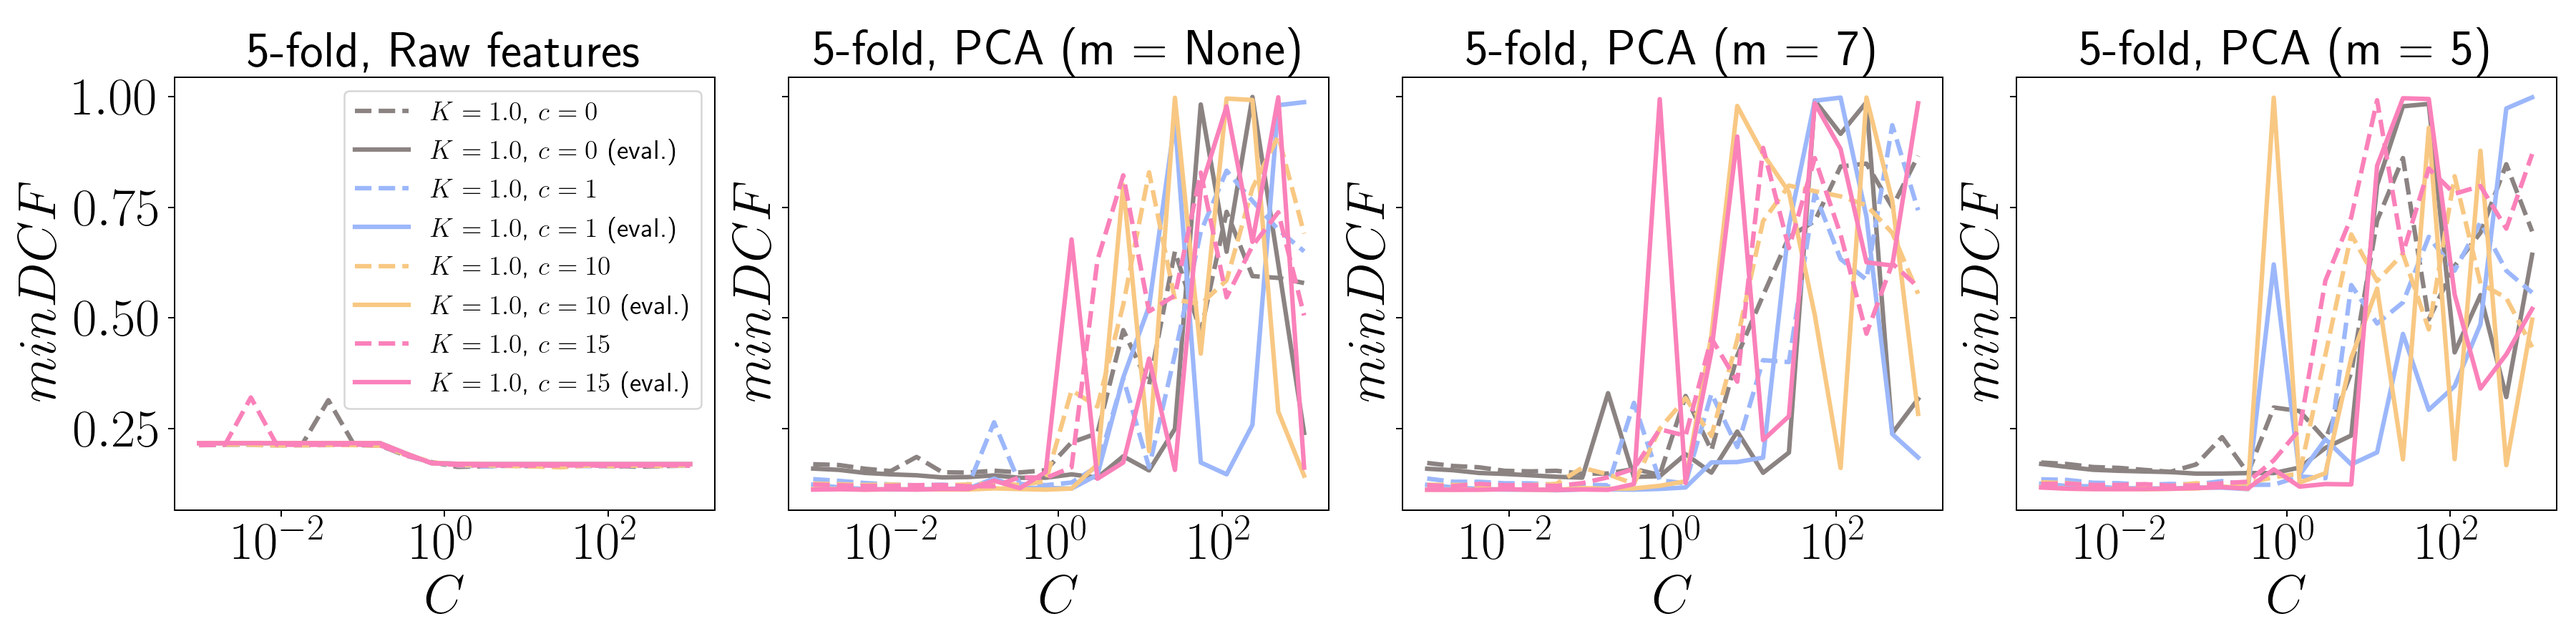
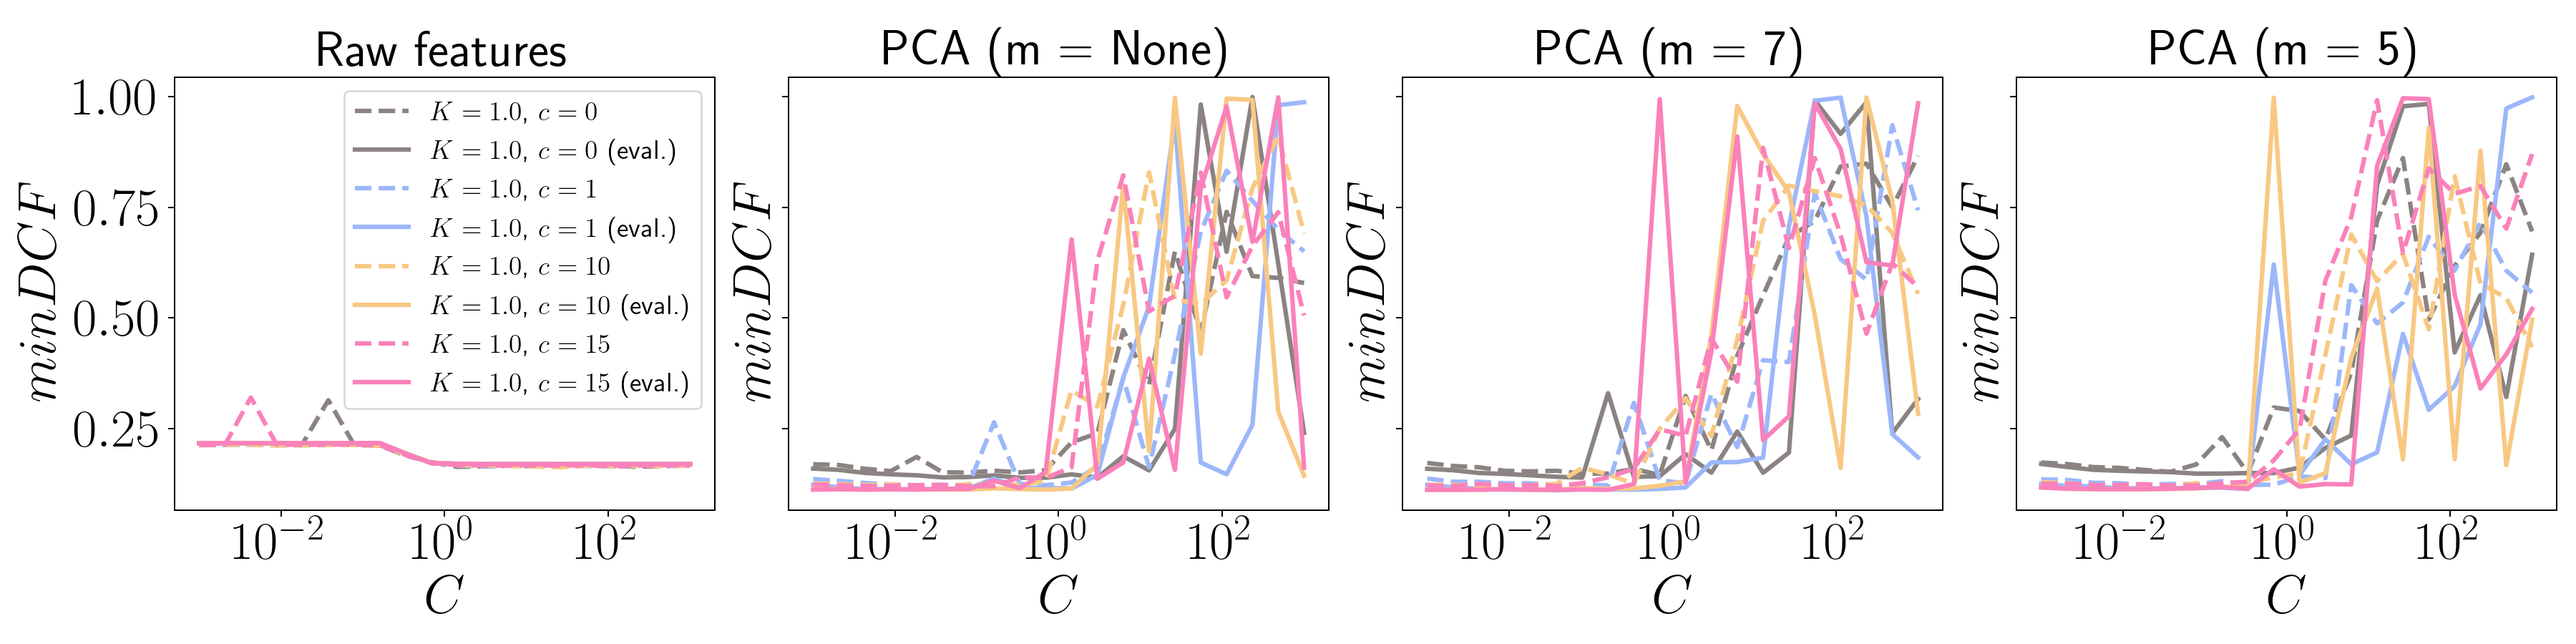
New and fixed plots

diff --git a/utils/plot_utils.py b/utils/plot_utils.py
@@ -1,4 +1,5 @@
 import itertools
+import sys
 
 import distinctipy
 import matplotlib
@@ -7,7 +8,7 @@ import numpy as np
 
 from preprocessing.preprocessing import gaussianize
 from utils.metrics_utils import compute_FPRs_TPRs
-from utils.utils import k_fold
+from utils.misc_utils import k_fold
 
 
 def plot_histogram(array, labels, titles, nbins: int = 10) -> None:
@@ -644,11 +645,11 @@ def plot_lambda_evaluation():
             axs[i].plot(lbd_values, DCFs_evaluation, color=colors[j],
                                     label=r"$\widetilde{\pi}=" + f"{pi}$ (eval.)")
             if m == False:
-                axs[i].set_title(f'5-fold, Raw features')
+                axs[i].set_title(f'Raw features')
             elif m is None:
-                axs[i].set_title(f'5-fold, no PCA')
+                axs[i].set_title(f'no PCA')
             else:
-                axs[i].set_title(f'5-fold, PCA (m={m})')
+                axs[i].set_title(f'PCA (m={m})')
 
             axs[i].set_xlabel(r'$\lambda$')
             axs[i].set_ylabel(r'$minDCF$')
@@ -765,11 +766,11 @@ def plot_tuningLinearSVMUnbalanced_evaluation():
                         label=r"$K=" + str(K) + r",\;\widetilde{\pi}=" + str(p) + r"$" + "(eval.)",
                         linewidth=3)
             if m is None:
-                axs[i].set_title(rf"Gau, no PCA, $\pi_T=0.5$")
+                axs[i].set_title(rf"Gau, no PCA")
             elif m == False:
-                axs[i].set_title(rf"Raw, no PCA, $\pi_T=0.5$")
+                axs[i].set_title(rf"Raw, no PCA")
             else:
-                axs[i].set_title(rf"Gau, PCA ($m = {m}$), $\pi_T=0.5$")
+                axs[i].set_title(rf"Gau, PCA ($m = {m}$)")
             # axs[i].legend()
             axs[i].set_xlabel('$C$')
             axs[i].set_ylabel('$minDCF$')
@@ -787,6 +788,67 @@ def plot_tuningLinearSVMUnbalanced_evaluation():
     axl.axis(False)
     axl.legend(*label_params, loc="center", bbox_to_anchor=(0.5, 0.5), prop={"size": 40})
     figl.show()
+
+
+def plot_tuningLinearSVMUnbalanced_evaluation2():
+    C_values = np.logspace(-3, 3, 20)
+    m_values = [False, 7]
+    K_values = [1.0]
+    priors = [0.5, 0.1, 0.9]
+
+    i = 0
+
+    plt.rcParams.update({
+        "text.usetex": True,
+        "font.family": "sans-serif",
+        "font.sans-serif": ["Computer Modern Serif"],
+        "axes.titlesize": 22,
+        "axes.labelsize": 30,
+        "legend.fontsize": 20,
+        "xtick.labelsize": 30,
+        "ytick.labelsize": 30,
+    })
+
+    fig, axs = plt.subplots(1, 2, sharey='row')
+    # colors = distinctipy.get_colors(6, pastel_factor=0.7)
+    for m in m_values:
+        hyperparameters = itertools.product(K_values, priors)
+        for j, (K, p) in enumerate(hyperparameters):
+            DCFs = np.load(
+                f"./../simulations/linearSVM/unbalanced/new/K{str(K).replace('.', '-')}_p{str(p).replace('.', '-')}_PCA{str(m)}.npy")
+            DCFs_evaluation = np.load(
+                f"../simulations/evaluation/linearSVM/unbalanced/K{str(K).replace('.', '-')}_p{str(p).replace('.', '-')}_PCA{str(m)}.npy")
+            axs[i].plot(C_values, DCFs, color=colors6[j], linestyle="dashed", label=r"$K=" + str(K) + r",\;\widetilde{\pi}=" + str(p) + r"$",
+                        linewidth=3)
+            axs[i].plot(C_values, DCFs_evaluation, color=colors6[j],
+                        label=r"$K=" + str(K) + r",\;\widetilde{\pi}=" + str(p) + r"$" + "(eval.)",
+                        linewidth=3)
+            if m is None:
+                axs[i].set_title(rf"Gau, no PCA")
+            elif m == False:
+                axs[i].set_title(rf"Raw, no PCA")
+            else:
+                axs[i].set_title(rf"Gau, PCA ($m = {m}$)")
+            # axs[i].legend()
+            axs[i].set_xlabel('$C$')
+            axs[i].set_ylabel('$minDCF$')
+            axs[i].set_xscale('log')
+            axs[i].yaxis.set_tick_params(labelbottom=True)
+            axs[i].set_xticks([10 ** i for i in range(-2, 3, 2)])
+        i += 1
+    fig.set_size_inches(20, 5)
+    fig.tight_layout()
+
+    lines_labels = [ax.get_legend_handles_labels() for ax in fig.axes]
+    lines, labels = [sum(lol, []) for lol in zip(*lines_labels)]
+    fig.legend(lines[:6], labels[:6], loc=7, ncol=1)
+
+    fig.subplots_adjust(right=0.8)
+    fig.subplots_adjust(wspace=0.2)
+
+    fig.show()
+    fig.savefig(fname="../plots/evaluation/tuning_SVMLinUnb_evaluation2", dpi=180)
+
 
 
 def plot_tuning_LinearSVMBalanced_evaluation():
@@ -851,6 +913,65 @@ def plot_tuning_LinearSVMBalanced_evaluation():
     fig.savefig(fname="../plots/evaluation/tuning_SVMLinBal_evaluation", dpi=180)
 
 
+def plot_tuning_LinearSVMBalanced_evaluation2():
+    C_values = np.logspace(-3, 3, 20)
+    m_values = [False, 7]
+    pi_T_values = [0.5]
+    K_values = [1.0]
+    prior = [0.5, 0.1, 0.9]
+
+    plt.rcParams.update({
+        "text.usetex": True,
+        "font.family": "sans-serif",
+        "font.sans-serif": ["Computer Modern Serif"],
+        "axes.titlesize": 30,
+        "axes.labelsize": 30,
+        "legend.fontsize": 20,
+        "xtick.labelsize": 30,
+        "ytick.labelsize": 30,
+    })
+
+    i = 0
+    fig, axs = plt.subplots(1, 2, sharey='all')
+
+    for m in m_values:
+        j = 0
+        for pi_T in pi_T_values:
+            hyperparameters = itertools.product(K_values, prior)
+            for idx, (K, pi) in enumerate(hyperparameters):
+                DCFs = np.load(
+                    f"../simulations/linearSVM/balanced/K{str(K).replace('.', '-')}_p{str(pi).replace('.', '-')}_pT{str(pi_T).replace('.', '-')}_PCA{str(m)}.npy")
+                DCFs_evaluation = np.load(
+                    f"../simulations/evaluation/linearSVM/balanced/K{str(K).replace('.', '-')}_p{str(pi).replace('.', '-')}_pT{str(pi_T).replace('.', '-')}_PCA{str(m)}.npy")
+                axs[i].plot(C_values, DCFs,  linestyle="dashed", color=colors6[idx],
+                               label=rf"$K={K}$,\;" + r"$\widetilde{\pi}=$" + f"{pi}", linewidth=3)
+                axs[i].plot(C_values, DCFs_evaluation, color=colors6[idx],
+                               label=rf"$K={K}$,\;" + r"$\widetilde{\pi}=$" + f"{pi} (eval.)", linewidth=3)
+                if not m:
+                    axs[i].set_title('Raw, no PCA, ' + rf"$\pi_T={pi_T}$")
+                else:
+                    axs[i].set_title('Gau, PCA ' + rf"($m = {m}$), $\pi_T={pi_T}$")
+                axs[i].set_xlabel(r"$C$")
+                axs[i].set_ylabel(r"$minDCF$")
+                axs[i].set_xscale('log')
+                axs[i].yaxis.set_tick_params(labelbottom=True)
+            j += 1
+        i += 1
+
+    fig.set_size_inches(20, 5)
+    fig.tight_layout()
+
+    lines_labels = [ax.get_legend_handles_labels() for ax in fig.axes]
+    lines, labels = [sum(lol, []) for lol in zip(*lines_labels)]
+    fig.legend(lines[:6], labels[:6], loc=7, ncol=1)
+
+    fig.subplots_adjust(right=0.8)
+    fig.subplots_adjust(wspace=0.2)
+
+    fig.show()
+    fig.savefig(fname="../plots/evaluation/tuning_SVMLinBal_evaluation2", dpi=180)
+
+
 def plot_tuningPolySVM_evaluation():
     C_values = np.logspace(-3, 3, 20)
     m_values = [False, None, 7, 5]
@@ -884,9 +1005,9 @@ def plot_tuningPolySVM_evaluation():
             axs[i].plot(C_values, DCFs, color=colors8[j], linestyle="dashed",label=rf"$K={K}$, $c={c}$", linewidth=2.5)
             axs[i].plot(C_values, DCFs_evaluation, color=colors8[j], label=rf"$K={K}$, $c={c}$ (eval.)", linewidth=2.5)
             if (m == False):
-                axs[i].set_title(f'5-fold, Raw features')
+                axs[i].set_title(f'Raw features')
             else:
-                axs[i].set_title(f'5-fold, PCA (m = {m})')
+                axs[i].set_title(f'PCA (m = {m})')
             if i == 0:
                 axs[i].legend(ncol=1, loc="upper right")
             axs[i].set_xlabel(r"$C$")
@@ -906,6 +1027,56 @@ def plot_tuningPolySVM_evaluation():
     figl.show()
 
     fig.savefig(fname="../plots/evaluation/tuning_PolySVM_evaluation", dpi=180)
+
+
+def plot_tuningPolySVM_evaluation2():
+    C_values = np.logspace(-3, 3, 20)
+    m_values = [False, 7]
+    K_values = [1.0]
+    c_values = [0, 1, 10, 15]
+
+    num_colors = len(K_values) * len(c_values)
+    # colors = distinctipy.get_colors(num_colors, pastel_factor=0.7)
+
+    plt.rcParams.update({
+        "text.usetex": True,
+        "font.family": "sans-serif",
+        "font.sans-serif": ["Computer Modern Serif"],
+        "axes.titlesize": 28,
+        "axes.labelsize": 30,
+        "legend.fontsize": 15,
+        "xtick.labelsize": 30,
+        "ytick.labelsize": 30,
+    })
+
+    i = 0
+    fig, axs = plt.subplots(1, 2, sharey="row")
+    for m in m_values:
+        hyperparameters = itertools.product(K_values, c_values)
+        for j, (K, c) in enumerate(hyperparameters):
+            DCFs = np.load(
+                f"../simulations/polySVM/K{str(K).replace('.', '-')}_c{str(c).replace('.', '-')}_PCA{str(m)}.npy")
+            DCFs_evaluation = np.load(
+                f"../simulations/evaluation/polySVM/K{str(K).replace('.', '-')}_c{str(c).replace('.', '-')}_PCA{str(m)}.npy")
+
+            axs[i].plot(C_values, DCFs, color=colors8[j], linestyle="dashed",label=rf"$K={K}$, $c={c}$", linewidth=2.5)
+            axs[i].plot(C_values, DCFs_evaluation, color=colors8[j], label=rf"$K={K}$, $c={c}$ (eval.)", linewidth=2.5)
+            if (m == False):
+                axs[i].set_title(f'Raw features')
+            else:
+                axs[i].set_title(f'PCA (m = {m})')
+            if i == 0:
+                axs[i].legend(ncol=1, loc="upper right")
+            axs[i].set_xlabel(r"$C$")
+            axs[i].set_ylabel(r"$minDCF$")
+            axs[i].set_xscale('log')
+            axs[i].set_xticks([10 ** i for i in range(-2, 3, 2)])
+        i += 1
+    fig.set_size_inches(12, 5)
+    fig.tight_layout()
+
+    fig.show()
+    fig.savefig(fname="../plots/evaluation/tuning_PolySVM_evaluation2", dpi=180)
 
 
 def plot_tuningRBFSVM_evaluation():
@@ -943,9 +1114,9 @@ def plot_tuningRBFSVM_evaluation():
             axs[i].plot(C_values, DCFs, color=colors6[j], linestyle="dashed", label=rf"$K={K}$, " + lb, linewidth=2.5)
             axs[i].plot(C_values, DCFs_evaluation, color=colors6[j], label=rf"$K={K}$, " + lb + " (eval.)", linewidth=2.5)
             if m == False:
-                axs[i].set_title(f'5-fold, Raw features')
+                axs[i].set_title(f'Raw features')
             else:
-                axs[i].set_title(rf"5-fold, PCA ($m = {m}$)")
+                axs[i].set_title(rf"PCA ($m = {m}$)")
             if i == 0:
                 axs[i].legend(ncol=1)
 
@@ -965,6 +1136,59 @@ def plot_tuningRBFSVM_evaluation():
     # axl.axis(False)
     # axl.legend(*label_params, loc="center", bbox_to_anchor=(0.5, 0.5), prop={"size": 40})
     # figl.show()
+
+
+def plot_tuningRBFSVM_evaluation2():
+    C_values = np.logspace(-3, 3, 20)
+    m_values = [False, 7]
+    K_values = [0.0]
+    gamma_exp = [-2, -3, -4]
+    i = 0
+    plt.clf()
+
+    # fig.suptitle('RBF SVM')
+    plt.rcParams.update({
+        "text.usetex": True,
+        "axes.titlesize": 28,
+        "axes.labelsize": 20,
+        "legend.fontsize": 16,
+        "xtick.labelsize": 30,
+        "ytick.labelsize": 30,
+    })
+
+    fig, axs = plt.subplots(1, 2, sharey="all")
+
+    # num_colors = len(K_values) * len(gamma_values)
+    # colors = distinctipy.get_colors(num_colors, pastel_factor=0.7)
+
+    for m in m_values:
+        hyperparameters = itertools.product(K_values, gamma_exp)
+        for j, (K, g_exp) in enumerate(hyperparameters):
+            gamma = 10 ** g_exp
+            DCFs = np.load(
+                f"../simulations/RBF/RBF_K{str(K).replace('.', '-')}_c{str(gamma).replace('.', '-')}_PCA{str(m)}.npy")
+            DCFs_evaluation = np.load(
+                f"../simulations/evaluation/RBF/RBF_K{str(K).replace('.', '-')}_gamma{str(gamma).replace('.', '-')}_PCA{str(m)}.npy")
+            lb = r"$\gamma = 10^{" + str(g_exp) + "}$"
+            axs[i].plot(C_values, DCFs, color=colors6[j], linestyle="dashed", label=rf"$K={K}$, " + lb, linewidth=2.5)
+            axs[i].plot(C_values, DCFs_evaluation, color=colors6[j], label=rf"$K={K}$, " + lb + " (eval.)", linewidth=2.5)
+            if m == False:
+                axs[i].set_title(f'Raw features')
+            else:
+                axs[i].set_title(rf"PCA ($m = {m}$)")
+            if i == 0:
+                axs[i].legend(ncol=1)
+
+            axs[i].set_xlabel(r"$C$")
+            axs[i].set_ylabel(r"$minDCF$")
+            axs[i].set_xscale('log')
+            axs[i].set_xticks([10 ** i for i in range(-2, 3, 2)])
+        i += 1
+
+    fig.set_size_inches(12, 5)
+    fig.tight_layout()
+    fig.show()
+    fig.savefig(fname="../plots/evaluation/tuning_RBFSVM_evaluation2", dpi=180)
 
 
 def plot_tuningGMM_evaluation():
@@ -1190,6 +1414,21 @@ def plot_main():
     # colors3 = distinctipy.get_colors(3, pastel_factor=1, colorblind_type='Deuteranomaly')
     # print(colors3)
 
+    # plot_lambda()
+    # plot_tuningPolySVM()
+    # plot_tuningRBFSVM()
+    # print(os.path.abspath("."))
+
+    # plot_tuning_LinearSVMBalanced_evaluation()
+    # plot_tuning_LinearSVMBalanced_evaluation2()
+    # plot_tuningLinearSVMUnbalanced_evaluation2()
+    # plot_tuningPolySVM_evaluation2()
+    # plot_tuningRBFSVM_evaluation2()
+    # plot_lambda_evaluation()
+    plot_tuningGMM_evaluation()
+
+
+if __name__ == '__main__':
     colors3 = [(0.5348547306212659, 0.5139339239248601, 0.5268686469375292),
                (0.9927895402526214, 0.7352147015471453, 0.5581049747178046),
                (0.524907193614528, 0.7671952975947081, 0.976588025007669)]
@@ -1208,19 +1447,5 @@ def plot_main():
                (0.5114677713143507, 0.5061193495393317, 0.9951605179132765),
                (0.5830073483609048, 0.5244350779880778, 0.7931264147573027),
                (0.5692188040526873, 0.7826586898074446, 0.5098679245540738)]
-    # plot_lambda()
-    # plot_tuningPolySVM()
-    # plot_tuningRBFSVM()
-    # print(os.path.abspath("."))
 
-    # plot_tuningLinearSVMUnbalanced_evaluation()
-    # plot_tuning_LinearSVMBalanced_evaluation()
-    # plot_tuningPolySVM_evaluation()
-    # plot_tuningRBFSVM_evaluation()
-    plot_lambda_evaluation()
-    # plot_tuningGMM_evaluation()
-    # plot_tuningGMM2()
-
-
-if __name__ == '__main__':
     plot_main()
